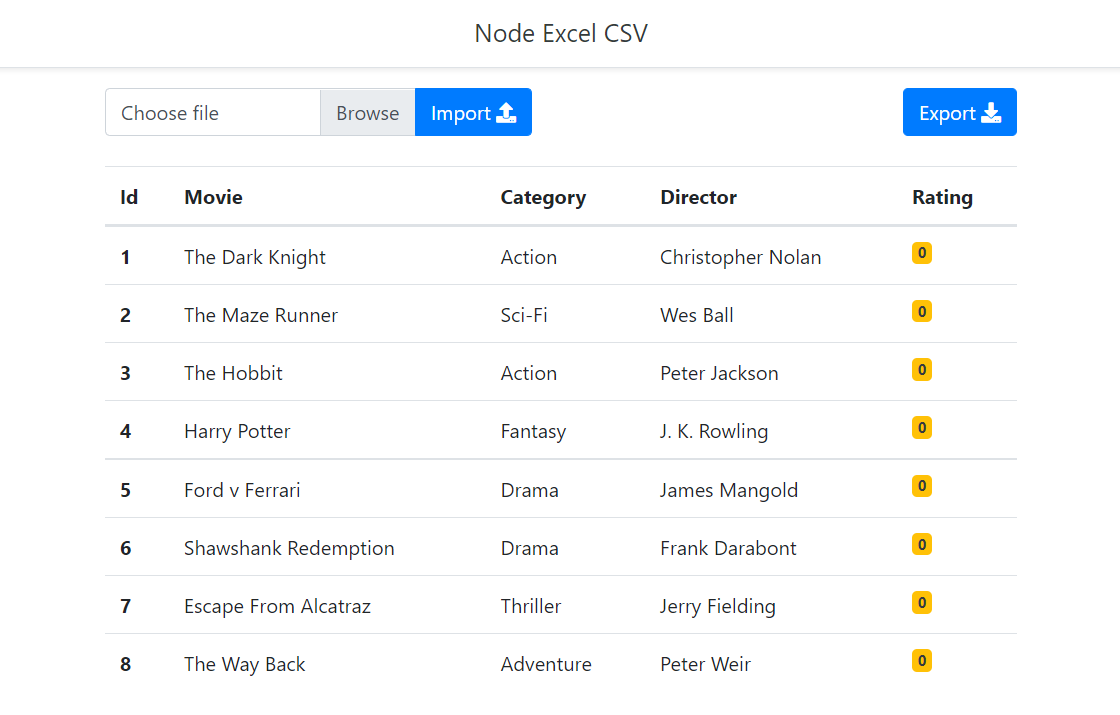
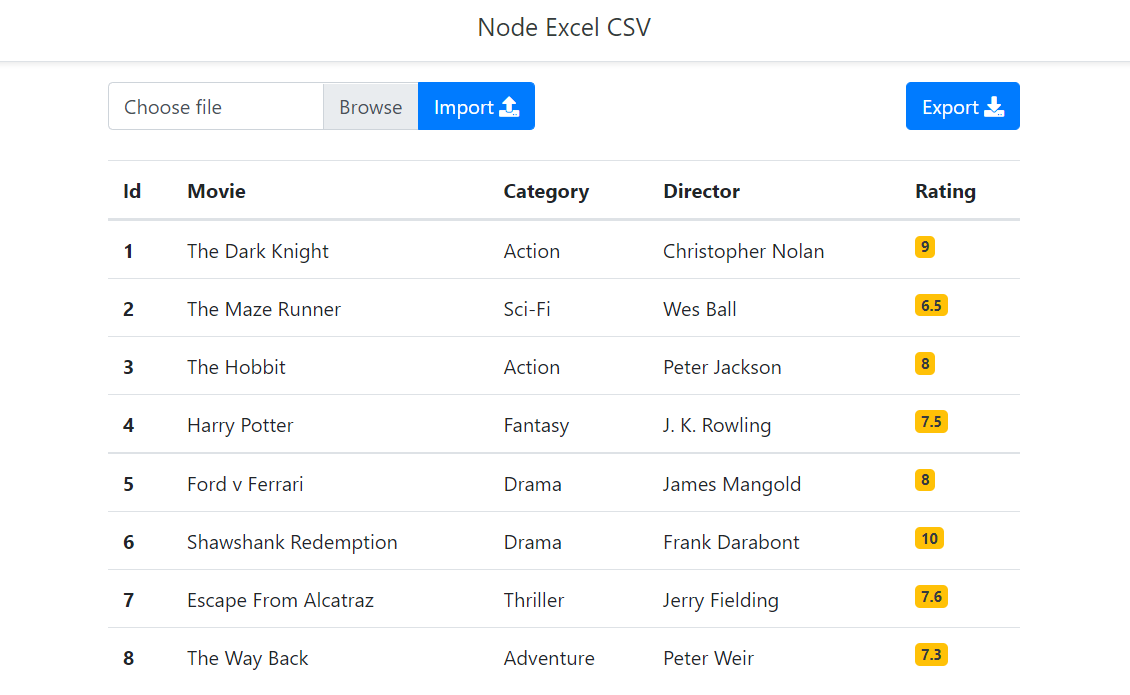
Import Export Implementation

diff --git a/controllers/movie.controller.js b/controllers/movie.controller.js
@@ -17,7 +17,7 @@ exports.import = async (req, res) => {
             movie: row['Movie'],
             category: row['Category'],
             director: row['Director'],
-            rating: row['rating']
+            rating: row['Rating']
         }))
         await Movie.bulkCreate(movies); 
     }
@@ -47,8 +47,11 @@ exports.export = async (req, res) => {
     });
     XLSX.utils.sheet_add_aoa(ws, headings); 
     XLSX.utils.book_append_sheet(wb, ws, 'Movies');
-    const filepath = `${outputPath}/movies.csv`;
-    XLSX.writeFile(wb, filepath); 
 
-    return res.download(filepath) 
+    const wbout = XLSX.write(wb, { bookType: 'csv', type: 'binary' });
+    const buffer = Buffer.from(wbout, 'binary');
+    res.attachment('movies.csv');
+
+    return res.send(buffer);
+    
 }
